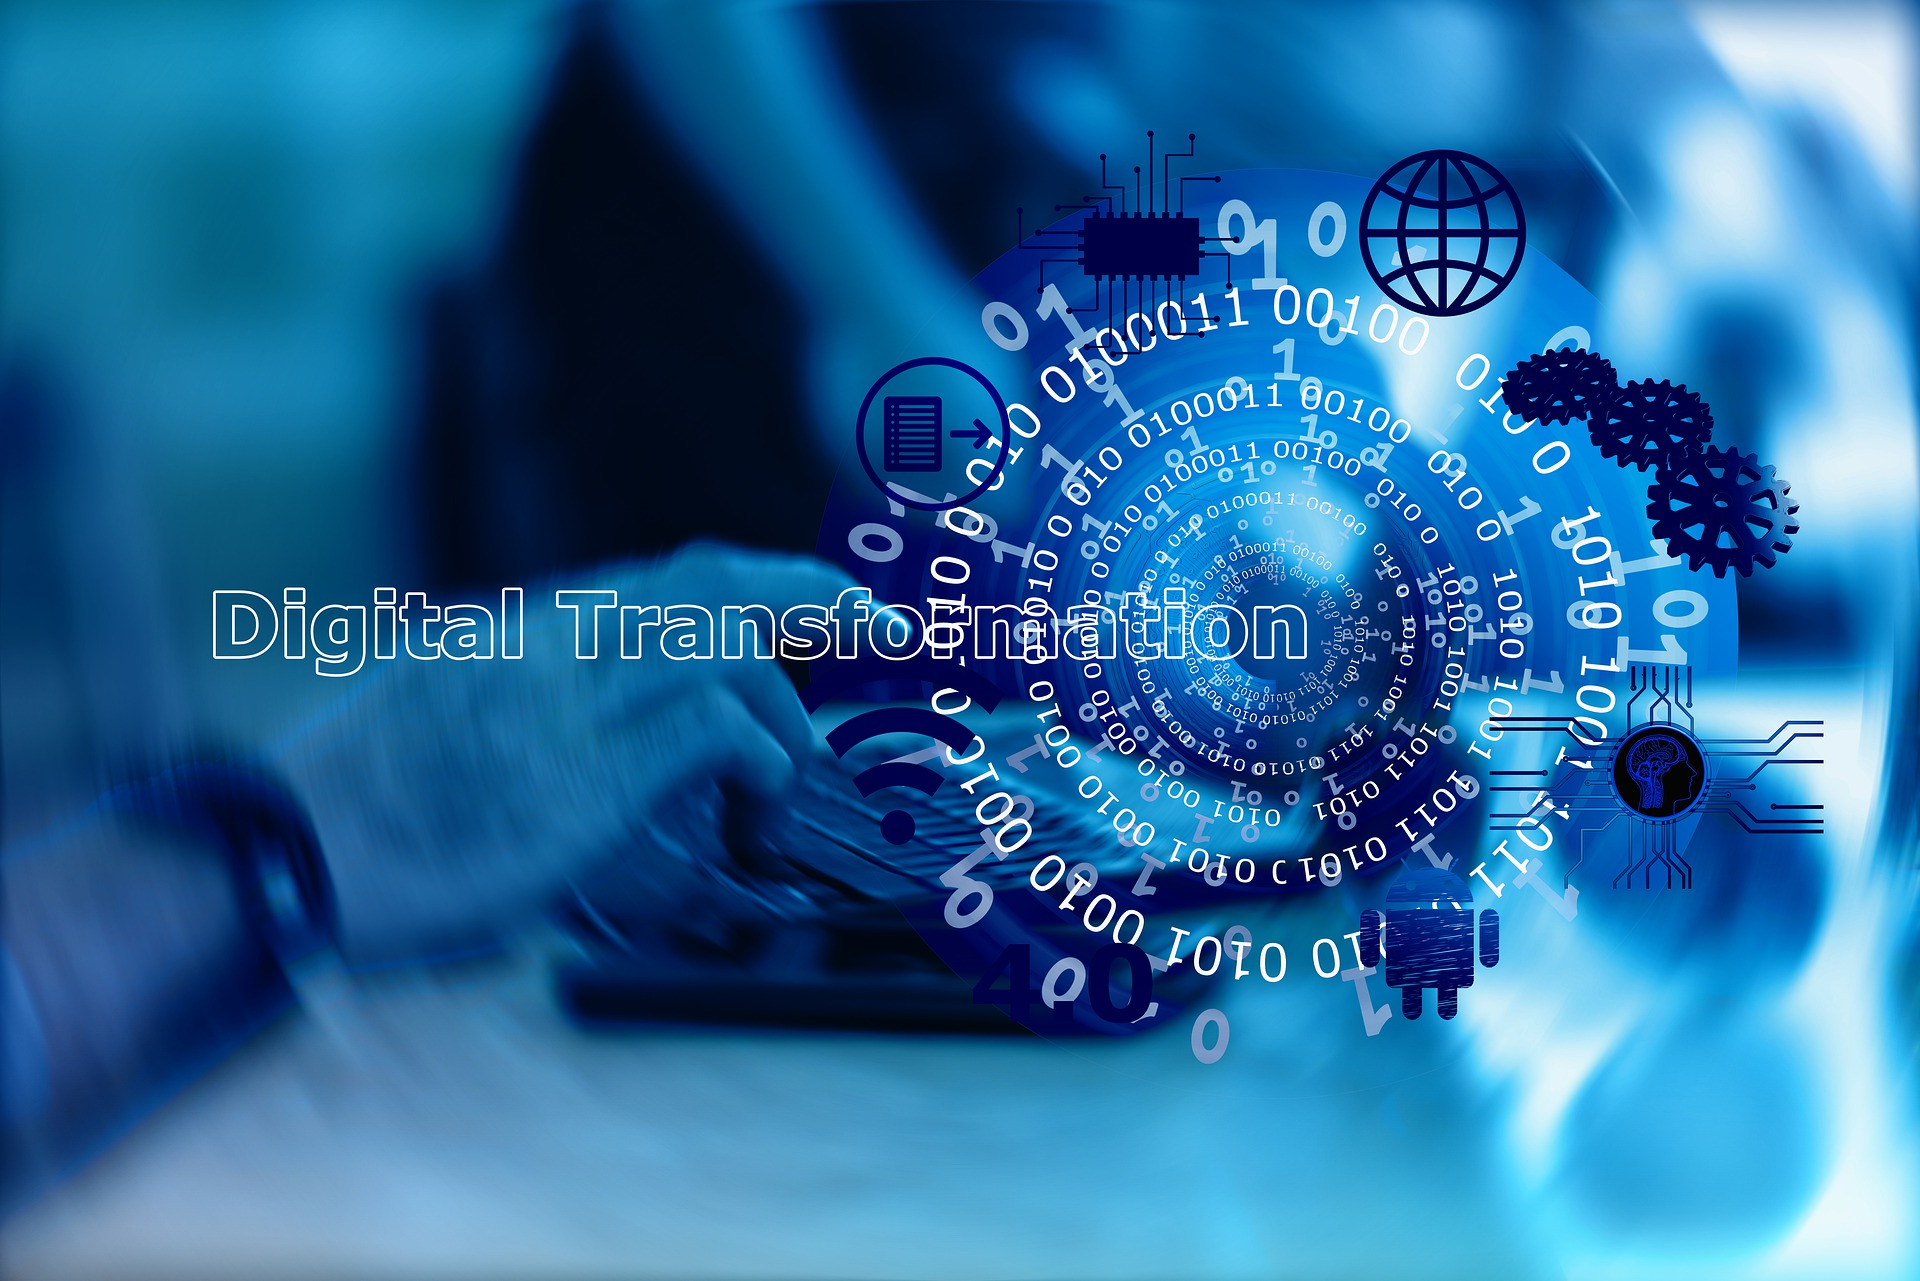
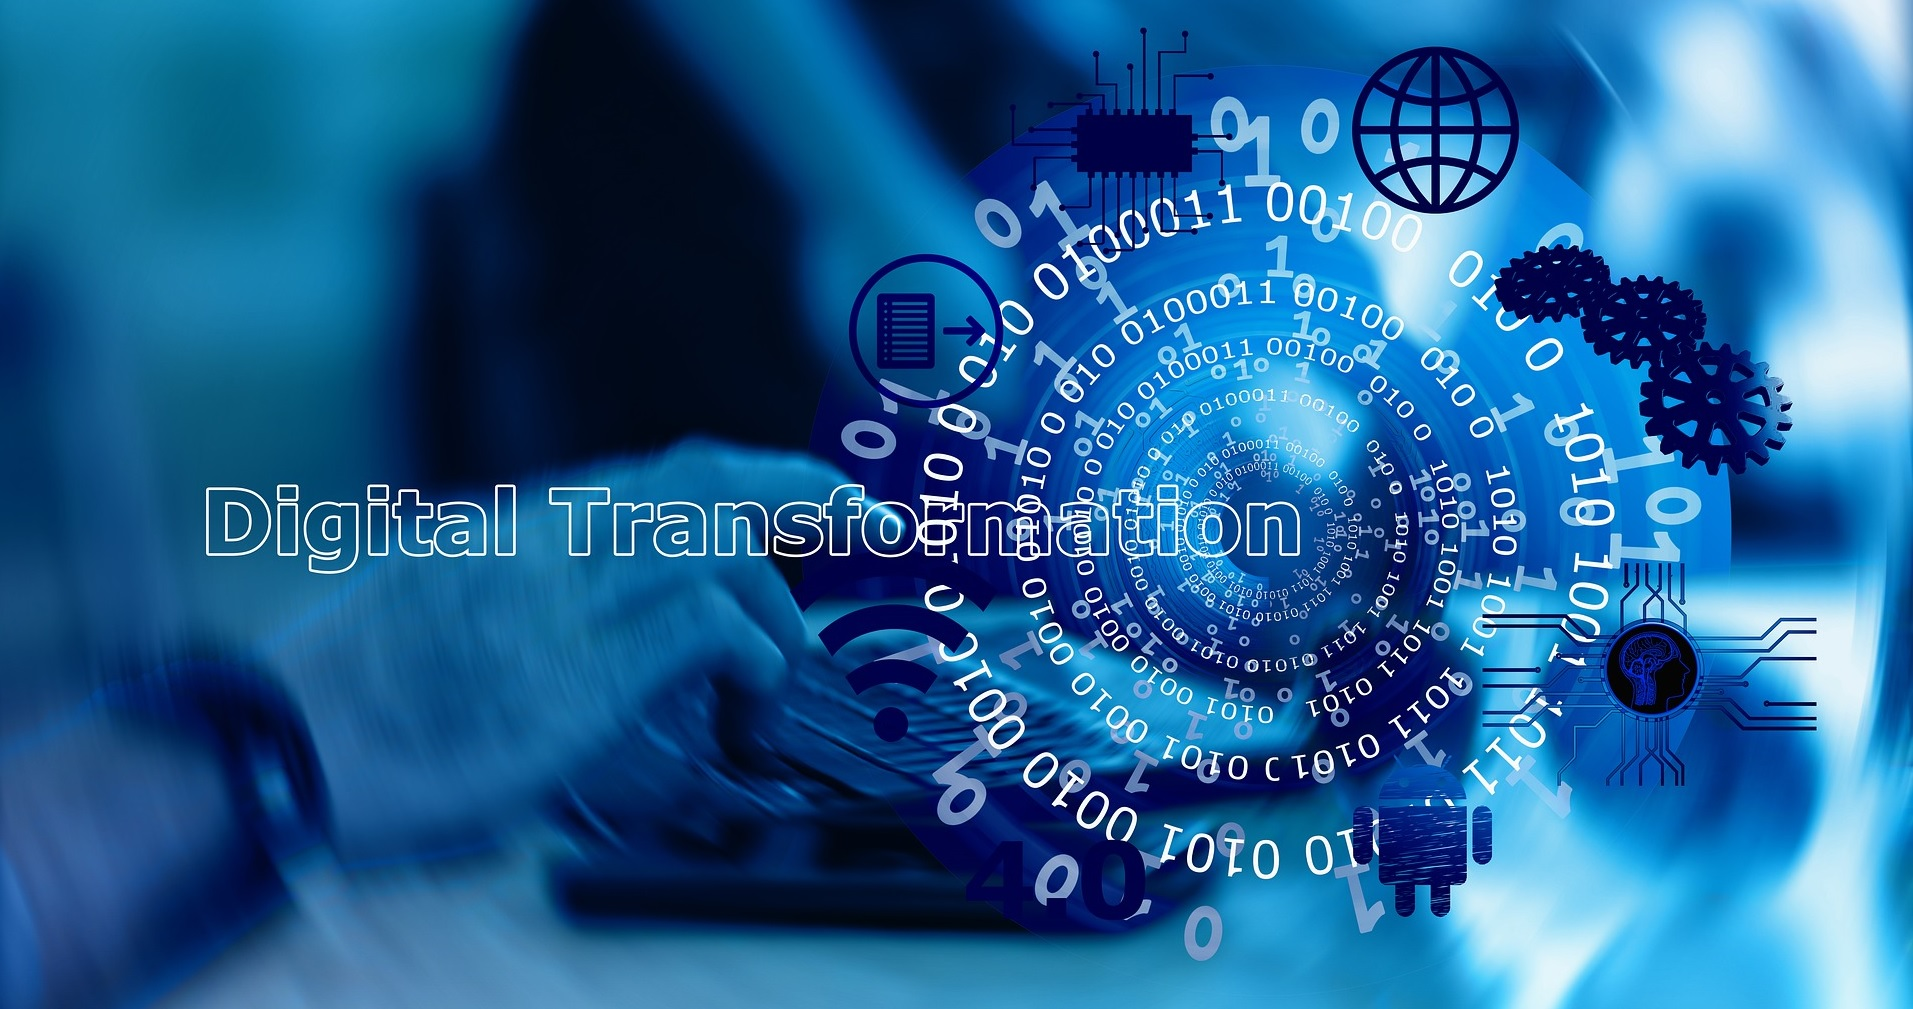
Updates index.html and modify image size

diff --git a/index.html b/index.html
@@ -6,7 +6,7 @@
 -->
 <html>
 	<head>
-		<title>John W.S. Lee's Portfolio</title>
+		<title>John W.S. Lee's Homepage</title>
 		<meta charset="utf-8" />
 		<meta name="viewport" content="width=device-width, initial-scale=1, user-scalable=no" />
 		<link rel="stylesheet" href="assets/css/main.css" />
@@ -36,7 +36,7 @@
 				<!-- Nav -->
 					<nav id="nav">
 						<ul class="links">
-							<li class="active"><a href="index.html">John's Portfolio</a></li>
+							<li class="active"><a href="index.html">Data Science Portfolio</a></li>
 							<!-- <li><a href="generic.html">Generic Page</a></li>
 							<li><a href="elements.html">Elements Reference</a></li> -->
 						</ul>
@@ -112,7 +112,7 @@
 										<h2>Defect Classification in Injection Molding</h2>
 									</header>
 									<a class="image fit"><img src="images/injection_molding.jpg"/></a>
-									<p>Defect classification by machine learning and anomaly detection approaches</p>
+									<p>Study on defect classification by supervised learning, Mahalanobis distance, and variational autoencoder</p>
 									<ul class="actions special">
 										<li><a href="https://github.com/johnwslee/injection_molding_analysis" class="button">Link to Repo</a></li>
 									</ul>
@@ -123,7 +123,7 @@
 										<h2>Gr. Project @ UBC-MDS <br /> bccovideda</h2>
 									</header>
 									<a class="image fit"><img src="images/covid19.jpg" /></a>
-									<p>Package to generate the summary statistics as well as plots for the COVID19 cases in British Columbia.</p>
+									<p>Package to generate the summary statistics as well as plots for the COVID19 cases in British Columbia, Canada</p>
 									<ul class="actions special">
 										<li><a href="https://github.com/UBC-MDS/bccovideda" class="button">Link to Repo</a></li>
 									</ul>
@@ -134,7 +134,7 @@
 										<h2>Gr. Project @ UBC-MDS <br /> Bee Count Comparison</h2>
 									</header>
 									<a class="image fit"><img src="images/bees.jpg" /></a>
-									<p>A data analysis (inferential) project for MDS DSCI522 (Data Science Workflows)</p>
+									<p>A data analysis (inferential) project for the number of bees across different types of bee sites</p>
 									<ul class="actions special">
 										<li><a href="https://github.com/UBC-MDS/DSCI_522_Bee_Count_Comparison_Group_26" class="button">Link to Repo</a></li>
 									</ul>
